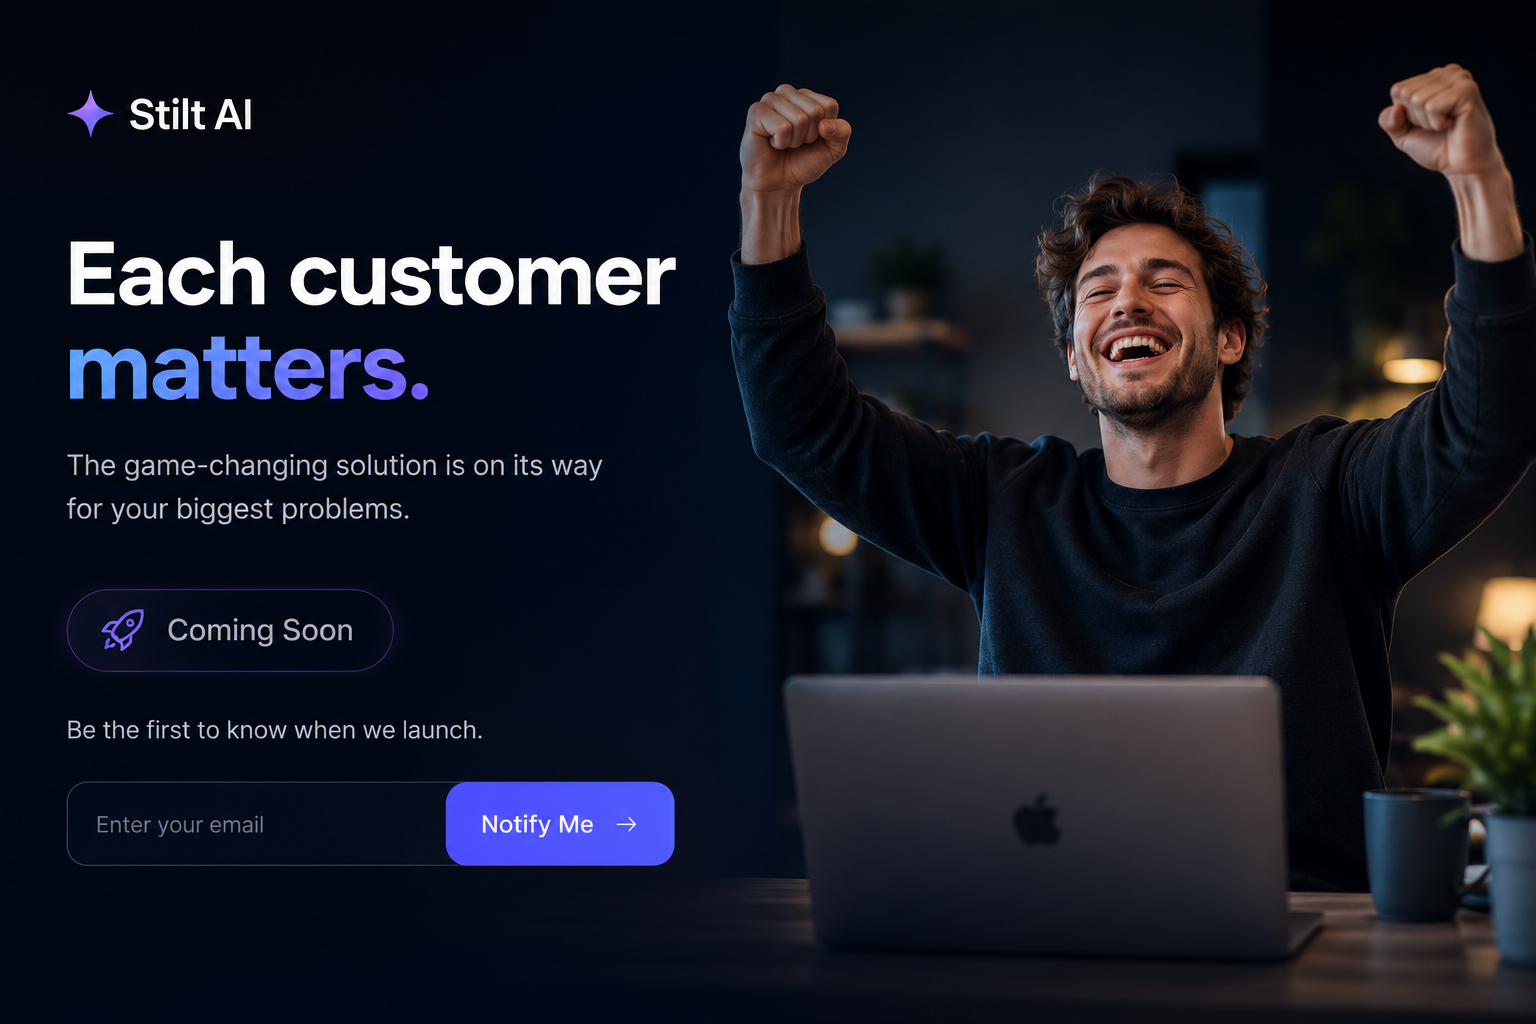
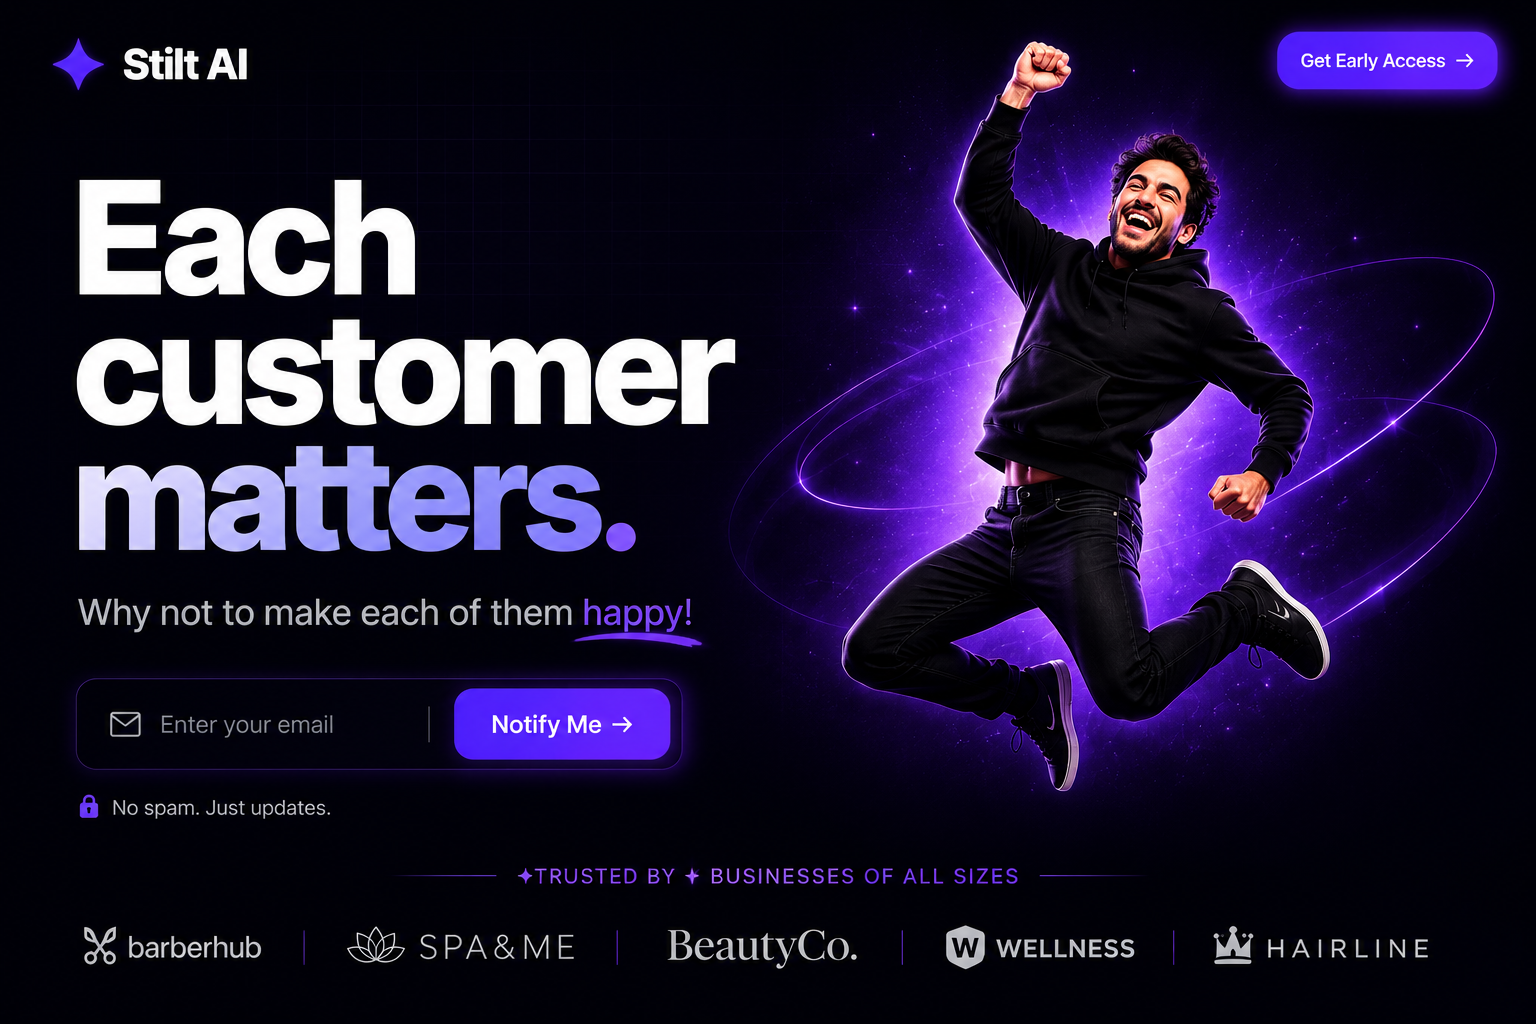
Add files via upload

diff --git a/index.html b/index.html
@@ -3,62 +3,43 @@
 <head>
   <meta charset="UTF-8" />
   <meta name="viewport" content="width=device-width, initial-scale=1.0" />
-  <title>Stilt AI — Coming Soon</title>
-  <meta name="description" content="Each customer matters. The game-changing solution is on its way for your biggest problems." />
-  <meta property="og:title" content="Stilt AI — Coming Soon" />
-  <meta property="og:description" content="Each customer matters. The game-changing solution is on its way for your biggest problems." />
-  <meta property="og:image" content="hero.png" />
-  <link rel="preconnect" href="https://fonts.googleapis.com">
-  <link rel="preconnect" href="https://fonts.gstatic.com" crossorigin>
-  <link href="https://fonts.googleapis.com/css2?family=Inter:wght@400;500;600;700;800&display=swap" rel="stylesheet">
+  <title>Stilt AI</title>
+  <meta name="description" content="Each customer matters. Why not to make each of them happy!" />
   <style>
     * { box-sizing: border-box; }
-    html, body { margin: 0; min-height: 100%; font-family: Inter, system-ui, -apple-system, BlinkMacSystemFont, "Segoe UI", sans-serif; }
-    body { color: white; background: #070711; overflow-x: hidden; }
-    .page { min-height: 100vh; position: relative; isolation: isolate; display: flex; flex-direction: column; padding: 34px clamp(22px, 5vw, 76px); background: radial-gradient(circle at 74% 50%, rgba(111, 91, 255, 0.34), transparent 32%), radial-gradient(circle at 16% 24%, rgba(92, 124, 255, 0.18), transparent 26%), linear-gradient(135deg, #06060d 0%, #090914 45%, #05050a 100%); }
-    .page:before { content: ""; position: absolute; inset: 0; background-image: linear-gradient(rgba(255,255,255,.035) 1px, transparent 1px), linear-gradient(90deg, rgba(255,255,255,.035) 1px, transparent 1px); background-size: 64px 64px; mask-image: radial-gradient(circle at 50% 40%, black, transparent 72%); z-index: -2; }
-    .orb { position: absolute; width: 520px; height: 520px; right: 10%; top: 18%; border-radius: 999px; background: #6d5df6; filter: blur(110px); opacity: .18; animation: drift 10s ease-in-out infinite; z-index: -1; }
-    nav { display: flex; align-items: center; justify-content: space-between; position: relative; z-index: 3; }
-    .brand { display: flex; align-items: center; gap: 13px; font-size: 28px; font-weight: 800; letter-spacing: -.04em; }
-    .mark { width: 36px; height: 36px; display: grid; place-items: center; color: #8b7cff; filter: drop-shadow(0 0 22px rgba(109,93,246,.8)); font-size: 34px; }
-    .pill { border: 1px solid rgba(255,255,255,.12); background: rgba(255,255,255,.045); color: rgba(255,255,255,.84); border-radius: 999px; padding: 10px 18px; font-weight: 600; backdrop-filter: blur(14px); box-shadow: inset 0 1px 0 rgba(255,255,255,.08); }
-    .hero { flex: 1; display: grid; grid-template-columns: minmax(0, 0.9fr) minmax(420px, 1.05fr); align-items: center; gap: 36px; padding: 42px 0 20px; }
-    .copy { max-width: 690px; }
-    h1 { margin: 0 0 30px; font-size: clamp(58px, 8vw, 112px); line-height: .92; letter-spacing: -.075em; font-weight: 800; }
-    h1 .accent { display: block; background: linear-gradient(135deg, #ffffff 0%, #a2b5ff 46%, #8a73ff 100%); -webkit-background-clip: text; background-clip: text; color: transparent; }
-    .subtitle { max-width: 590px; margin: 0 0 40px; color: rgba(255,255,255,.68); font-size: clamp(20px, 2vw, 28px); line-height: 1.45; letter-spacing: -.035em; }
-    .form { display: flex; width: min(610px, 100%); padding: 7px; border: 1px solid rgba(255,255,255,.12); background: rgba(255,255,255,.045); border-radius: 22px; backdrop-filter: blur(16px); box-shadow: 0 22px 70px rgba(0,0,0,.32), inset 0 1px 0 rgba(255,255,255,.08); }
-    input { min-width: 0; flex: 1; border: 0; outline: none; color: white; background: transparent; font: inherit; font-size: 17px; padding: 0 20px; }
-    input::placeholder { color: rgba(255,255,255,.42); }
-    button { border: 0; color: white; cursor: pointer; font: inherit; font-weight: 800; font-size: 17px; border-radius: 17px; padding: 18px 27px; background: linear-gradient(135deg, #7b61ff, #5977ff); box-shadow: 0 16px 36px rgba(91, 93, 246, .35); transition: transform .2s ease, box-shadow .2s ease; white-space: nowrap; }
-    button:hover { transform: translateY(-2px); box-shadow: 0 20px 42px rgba(91, 93, 246, .45); }
-    .message { height: 24px; margin-top: 16px; color: rgba(255,255,255,.58); font-size: 15px; }
-    .visual { min-height: 620px; display: flex; align-items: center; justify-content: center; position: relative; }
-    .card { width: min(100%, 720px); aspect-ratio: 1.15 / 1; border-radius: 38px; position: relative; overflow: hidden; background: radial-gradient(circle at 50% 45%, rgba(109,93,246,.36), rgba(255,255,255,.04) 54%, rgba(255,255,255,.025)); border: 1px solid rgba(255,255,255,.1); box-shadow: 0 40px 100px rgba(0,0,0,.48), inset 0 1px 0 rgba(255,255,255,.08); }
-    .card img { width: 112%; height: 112%; object-fit: cover; object-position: center; transform: translateX(-4%) translateY(-3%); animation: float 4.5s ease-in-out infinite; filter: saturate(1.08) contrast(1.02); }
-    .shine { position: absolute; inset: 0; background: linear-gradient(115deg, transparent 0%, rgba(255,255,255,.08) 38%, transparent 54%); mix-blend-mode: screen; pointer-events: none; }
-    footer { color: rgba(255,255,255,.38); font-size: 14px; padding-bottom: 6px; }
-    @keyframes float { 0%, 100% { transform: translateX(-4%) translateY(-3%) scale(1); } 50% { transform: translateX(-4%) translateY(-6%) scale(1.015); } }
-    @keyframes drift { 0%, 100% { transform: translate(0,0); } 50% { transform: translate(-42px, 26px); } }
-    @media (max-width: 980px) { body { overflow: auto; } .page { min-height: auto; } .hero { grid-template-columns: 1fr; padding-top: 70px; } .visual { min-height: auto; } .card { max-width: 620px; } footer { margin-top: 32px; } }
-    @media (max-width: 560px) { nav { align-items: flex-start; gap: 16px; } .pill { font-size: 14px; padding: 9px 14px; } .form { flex-direction: column; } input { padding: 18px 16px; } button { width: 100%; } .card { border-radius: 28px; } }
+    html, body {
+      margin: 0;
+      width: 100%;
+      min-height: 100%;
+      background: #05050c;
+      overflow: hidden;
+    }
+    body {
+      display: flex;
+      align-items: center;
+      justify-content: center;
+      font-family: Arial, sans-serif;
+    }
+    .site {
+      width: 100vw;
+      height: 100vh;
+      background-image: url("hero.png");
+      background-size: cover;
+      background-position: center center;
+      background-repeat: no-repeat;
+    }
+    @media (max-width: 900px) {
+      body { overflow: auto; }
+      .site {
+        width: 100vw;
+        min-height: 100vh;
+        background-size: cover;
+        background-position: left center;
+      }
+    }
   </style>
 </head>
 <body>
-  <main class="page">
-    <div class="orb"></div>
-    <nav><div class="brand"><span class="mark">✦</span><span>Stilt AI</span></div><div class="pill">Coming Soon</div></nav>
-    <section class="hero">
-      <div class="copy">
-        <h1>Each customer <span class="accent">matters.</span></h1>
-        <p class="subtitle">The game-changing solution is on its way for your biggest problems.</p>
-        <form class="form" id="notifyForm"><input id="email" type="email" placeholder="Enter your email" required /><button type="submit">Notify Me →</button></form>
-        <div class="message" id="message">Be the first to know when we launch.</div>
-      </div>
-      <div class="visual"><div class="card"><img src="hero.png" alt="A joyful customer celebrating" /><div class="shine"></div></div></div>
-    </section>
-    <footer>© 2026 Stilt AI · Made with ❤️ for businesses that care about every customer.</footer>
-  </main>
-  <script>const form=document.getElementById("notifyForm"),message=document.getElementById("message");form.addEventListener("submit",function(e){e.preventDefault();message.textContent="Thank you! We'll let you know.";form.reset();});</script>
+  <main class="site" aria-label="Stilt AI coming soon landing page"></main>
 </body>
 </html>